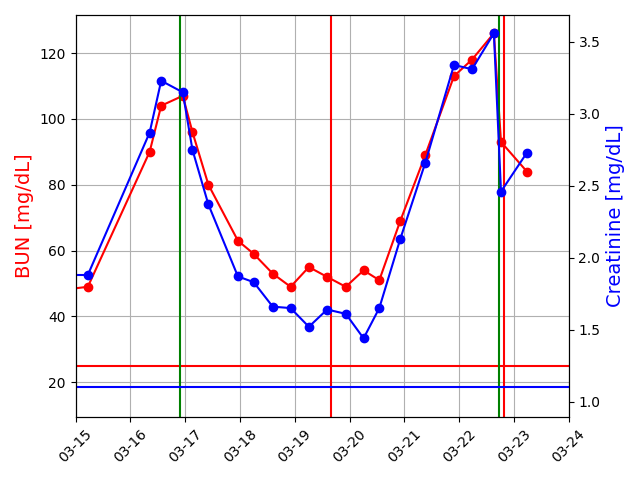
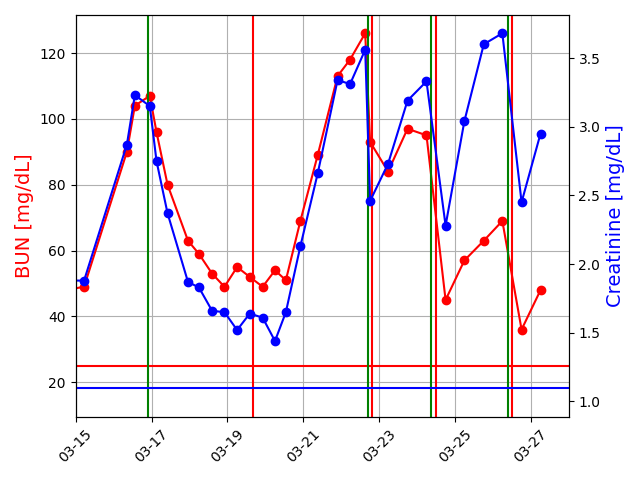
cleaned up ICU_BMT script

diff --git a/ICU_BMT.py b/ICU_BMT.py
@@ -19,7 +19,9 @@ Bun_Cre = ['2/16-04:20', 23, 1.08, '2/17-04:20', 21, 1.02, '2/18-06:00', 22, 1.0
            '3/16-13:28',104,3.23,'3/16-22:55',107,3.15,'3/17-3:10',96,2.75,'3/17-10:09',80,2.37,
            '3/17-23:05',63,1.87,'3/18-6:00',59,1.83,'3/18-14:20',53,1.66,'3/18-22:10',49,1.65,'3/19-6:10',55,1.52,
 '3/19-14:10',52,1.64,'3/19-22:20',49,1.61,'3/20-6:08',54,1.44,'3/20-13:01',51,1.65,'3/20-22:12',69,2.13,'3/21-9:10',89,2.66,
-'3/21-21:45',113,3.34,'3/22-5:38',118,3.31,'3/22-15:13',126,3.56,'3/22-18:20',93,2.46,'3/23-5:41',84,2.73]
+'3/21-21:45',113,3.34,'3/22-5:38',118,3.31,'3/22-15:13',126,3.56,'3/22-18:20',93,2.46,'3/23-5:41',84,2.73,'3/23-18:00',97,3.19,'3/24-6:00',95,3.33,
+           '3/24-18:05',45,2.28,'3/25-5:58',57,3.04,'3/25-18:15',63,3.6,'3/26-6:00',69,3.68,'3/26-18:10',36,2.45,
+           '3/27-6:10',48,2.95]
 
 cbc = ['2/16-04:20', 1.3, 82, '2/17-04:20',1.6, 64 , '2/18-06:00', 1.4, 52, '2/19-04:40', 0.7, 36, '2/20-04:55',0.2, 28
            , '2/21-04:40', 0.1,10,
@@ -33,17 +35,28 @@ cbc = ['2/16-04:20', 1.3, 82, '2/17-04:20',1.6, 64 , '2/18-06:00', 1.4, 52, '2/1
        '3/12-21:03',0.1,14,'3/13-6:57',0.2,22,'3/13-18:00',0.2,18,'3/14-5:45',.2,21,'3/14-17:40',.2,16,
        '3/15-5:20',.2,15,'3/15-18:23',.2,8,'3/16-4:45',.3,8,'3/16-12:20',.3,7,'3/16-22:01',.3,6,'3/17-10:09',.3,14,
        '3/17-20:45',0.3,17,'3/18-6:00',0.4,15,'3/18-18:10',0.2,8,'3/19-6:10',0.2,11,'3/19-18:05',0.3,7,'3/20-6:08',0.2,12,'3/20-22:12',0.4,17,'3/21-9:10',0.4,24,'3/21-21:45',0.4,33,'3/22-5:38',0.5,27,
-       '3/22-18:20',.5,9,'3/23-5:41',.4,18]
+       '3/22-18:20',.5,9,'3/23-5:41',.4,18,'3/23-18:00',.6,12,'3/24-6:00',.6,9,'3/24-18:05',.7,8,
+       '3/25-5:58',1,13,'3/25-18:15',1.3,7,'3/26-6:00',1.4,12,'3/26-12:45',1.4,7,'3/26-18:10',1.4,5,'3/27-2:30',1.3,8,
+       '3/27-6:10',1.3,6]
 
 neu = ['2/16-4:20',83,1.1,'2/17-4:20',89,1.4,'2/18-6:00',90,1.2,'2/19-4:40',94,.7,'3/11-5:00',60,.2,'3/11-2:16',88,.4,'3/16-4:45',7,0,'3/16-12:20',7,0,'3/17-10:09',7,0,'3/18-6:00',11,0,'3/19-6:05',22,.1,
-       '3/20-10:12',31,.1,'3/21-9:10',60,.2,'3/21-21:45',58,.2,'3/22-5:38',42,.2,'3/22-18:20',44,.2,'3/23-5:41',52,.2]
+       '3/20-10:12',31,.1,'3/21-9:10',60,.2,'3/21-21:45',58,.2,'3/22-5:38',42,.2,'3/22-18:20',44,.2,'3/23-5:41',52,.2,'3/23-18:00',65,.4,'3/24-6:00',64,.4,'3/24-18:05',64,.4,
+       '3/25-5:58',66,.7,'3/25-18:15',53,.7,'3/26-6:00',53,.7,'3/26-18:10',64,.9,'3/27-2:30',50,.7,'3/27-6:10',57,.7]
+
+dialysis = ['03/16 21:45','03/19 16:00','03/22 17:15','03/22 19:30','03/24 09:07','03/24 12:17','03/26 09:42','03/26 12:15']
+
+platelets = ['3/20 01:00','3/20 13:00','3/20 21:00','3/21 02:00','3/21 07:00','3/21 17:00','3/22 23:00',
+             '3/23 02:00','3/23 11:00','3/24 11:00','3/24 12:30','3/24 23:30','3/25 01:00','3/25 22:45',
+             '3/26 00:45','3/26 15:10','3/26 22:30','3/27 00:00','3/27 06:55','3/27 11:43']
 
 dt = []
 bun = []
 cre = []
 
 for i in range(0, len(Bun_Cre), 3):
-    dt.append(datetime.datetime.strptime(Bun_Cre[i], "%m/%d-%H:%M"))
+    date = datetime.datetime.strptime(Bun_Cre[i], "%m/%d-%H:%M")
+    date = date.replace(2023)
+    dt.append(date)
     bun.append(Bun_Cre[i + 1])
     cre.append(Bun_Cre[i + 2])
 
@@ -52,7 +65,9 @@ neu_n = []
 neu_a = []
 
 for i in range(0, len(neu), 3):
-    dt_n.append(datetime.datetime.strptime(neu[i], "%m/%d-%H:%M"))
+    date = datetime.datetime.strptime(neu[i], "%m/%d-%H:%M")
+    date = date.replace(2023)
+    dt_n.append(date)
     neu_n.append(neu[i + 1])
     neu_a.append(neu[i + 2]*1000)
 
@@ -63,13 +78,20 @@ ax.plot(dt, bun, color="red", marker="o")
 plt.axhline(25, color='red')
 ax.xaxis.set_major_formatter(mdates.DateFormatter('%m-%d'))
 plt.xticks(rotation=45)
-lims = (np.datetime64('1900-03-15'), np.datetime64('1900-03-24'))
-ax.set_xlim(lims)
-plt.axvline(np.datetime64('1900-03-16 21:45:00'), color='green')
-plt.axvline(np.datetime64('1900-03-19 16:00:00'), color='red')
 
-plt.axvline(np.datetime64('1900-03-22 17:15:00'), color='green')
-plt.axvline(np.datetime64('1900-03-22 19:30:00'), color='red')
+date_max = datetime.datetime.now()
+date_max += datetime.timedelta(days=1)
+lims = (np.datetime64('2023-03-15'), np.datetime64(date_max))
+ax.set_xlim(lims)
+
+for idx, i in enumerate(dialysis):
+    date = datetime.datetime.strptime(i, "%m/%d %H:%M")
+    date = date.replace(2023)
+    if idx % 2 == 0:
+        color = 'red'
+    else:
+        color = 'green'
+    plt.axvline(np.datetime64(date), color=color)
 
 
 plt.grid(True)
@@ -92,7 +114,9 @@ pl = []
 wb = []
 
 for i in range(0, len(cbc), 3):
-    dt.append(datetime.datetime.strptime(cbc[i], "%m/%d-%H:%M"))
+    date = datetime.datetime.strptime(cbc[i], "%m/%d-%H:%M")
+    date = date.replace(2023)
+    dt.append(date)
     wb.append(cbc[i + 1])
     pl.append(cbc[i + 2])
 
@@ -102,7 +126,6 @@ plt.plot(dt,pl,color="red", marker="o" )
 ax.xaxis.set_major_formatter(mdates.DateFormatter('%m-%d'))
 plt.ylabel('Platelets [k/cumm]', color="red", fontsize=14)
 plt.xticks(rotation=45)
-ax.xaxis.set_major_formatter(mdates.DateFormatter('%m-%d'))
 plt.grid(True)
 plt.axhline(130, color='red')
 
@@ -110,9 +133,9 @@ ax2 = ax.twinx()
 ax2.plot(dt, wb, color="blue", marker="o")
 plt.axhline(4.1, color='blue')
 ax2.set_ylabel('WBC [k/cumm]', color="blue", fontsize=14)
-
 plt.tight_layout()
 plt.show()
+
 
 
 fig, ax = plt.subplots()
@@ -120,7 +143,6 @@ plt.plot(dt_n,neu_a,color="red", marker="o" )
 ax.xaxis.set_major_formatter(mdates.DateFormatter('%m-%d'))
 plt.ylabel('Neutrophil Count [/cumm]', color="red", fontsize=14)
 plt.xticks(rotation=45)
-ax.xaxis.set_major_formatter(mdates.DateFormatter('%m-%d'))
 plt.grid(True)
 plt.axhline(1.58*1000, color='red')
 
@@ -133,19 +155,40 @@ plt.tight_layout()
 plt.show()
 
 
+timedeltas = [dt[i] - dt[i-1] for i in range(1, len(dt))]
+dateTimeDifferenceInHours = [timedeltas[i].total_seconds() / 3600 for i in range(len(timedeltas))]
+dpl = [pl[i] - pl[i-1] for i in range(1, len(pl))]
+grad = [dpl[i]/dateTimeDifferenceInHours[i] for i in range(len(dateTimeDifferenceInHours))]
 
-# fig, ax = plt.subplots()
-# plt.plot(dt,pl,color="red", marker="o" )
-# ax.xaxis.set_major_formatter(mdates.DateFormatter('%m-%d'))
-# plt.ylabel('Platelets [k/cumm]', color="red", fontsize=14)
-# plt.xticks(rotation=45)
-# ax.xaxis.set_major_formatter(mdates.DateFormatter('%m-%d %H'))
-# lims = (np.datetime64('1900-03-13'), np.datetime64('1900-03-18'))
-# ax.set_xlim(lims)
-# ax.set_ylim((0,25))
-# plt.grid(True)
-# # plt.axhline(130, color='red')
-#
-#
-# plt.tight_layout()
-# plt.show()
+
+fig, ax = plt.subplots()
+plt.plot(dt,pl,color="red", marker="o" )
+for idx, val in enumerate(grad):
+    if idx >= 57:
+        plt.text(dt[idx+1],1.1*pl[idx+1],"{:.2f}".format(val))
+
+ax.xaxis.set_major_formatter(mdates.DateFormatter('%m-%d'))
+plt.ylabel('Platelets [k/cumm]', color="red", fontsize=14)
+plt.xticks(rotation=45)
+lims = (np.datetime64('2023-03-21'), np.datetime64(date_max))
+ax.set_xlim(lims)
+ax.set_ylim((0,40))
+plt.grid(True)
+
+for idx, i in enumerate(dialysis):
+    date = datetime.datetime.strptime(i, "%m/%d %H:%M")
+    date = date.replace(2023)
+    if idx % 2 == 0:
+        color = 'red'
+    else:
+        color = 'green'
+    plt.axvline(np.datetime64(date), color=color)
+
+for i in platelets:
+    date = datetime.datetime.strptime(i, "%m/%d %H:%M")
+    date = date.replace(2023)
+    plt.axvline(date, color='blue')
+
+plt.tight_layout()
+plt.show()
+
